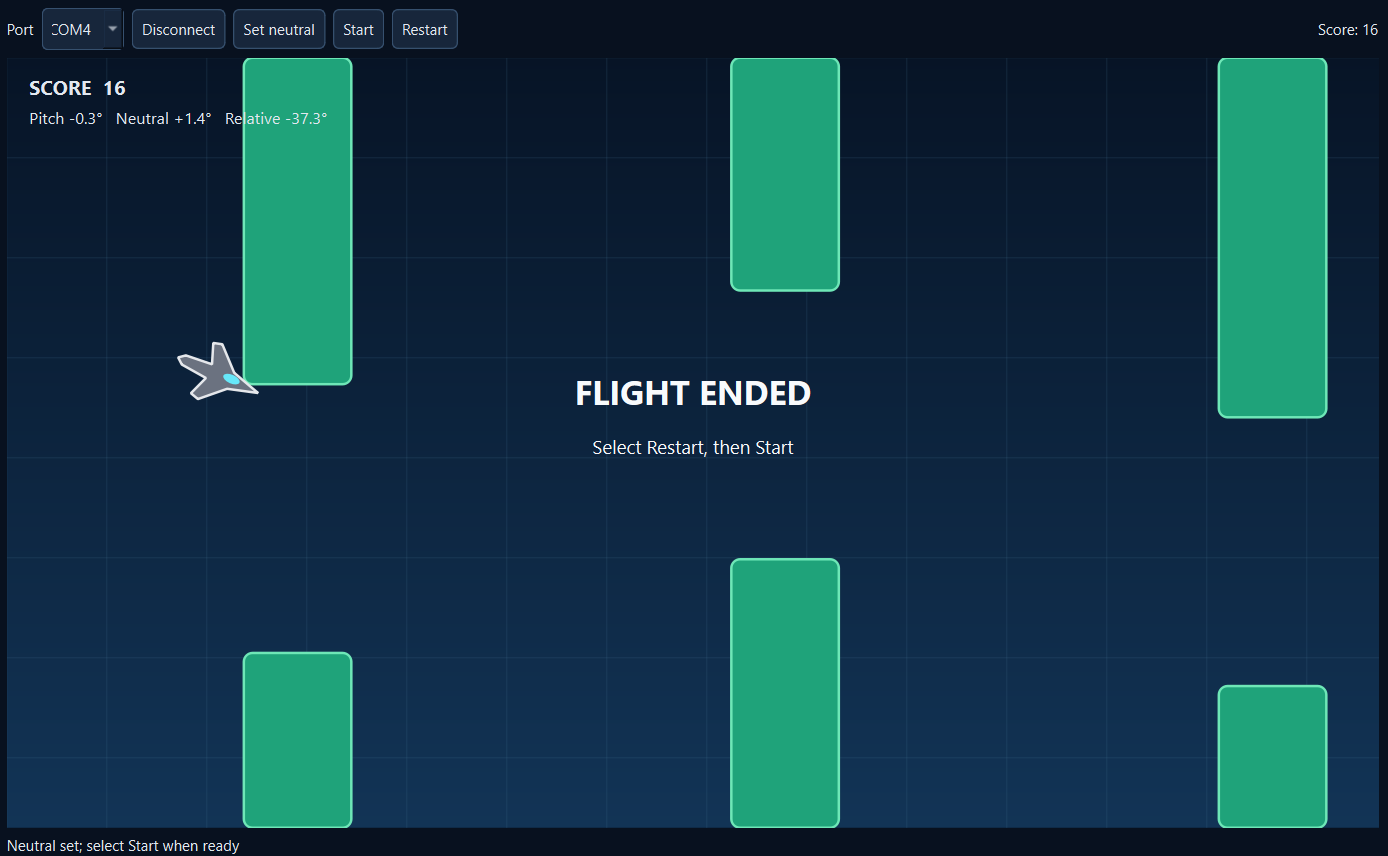
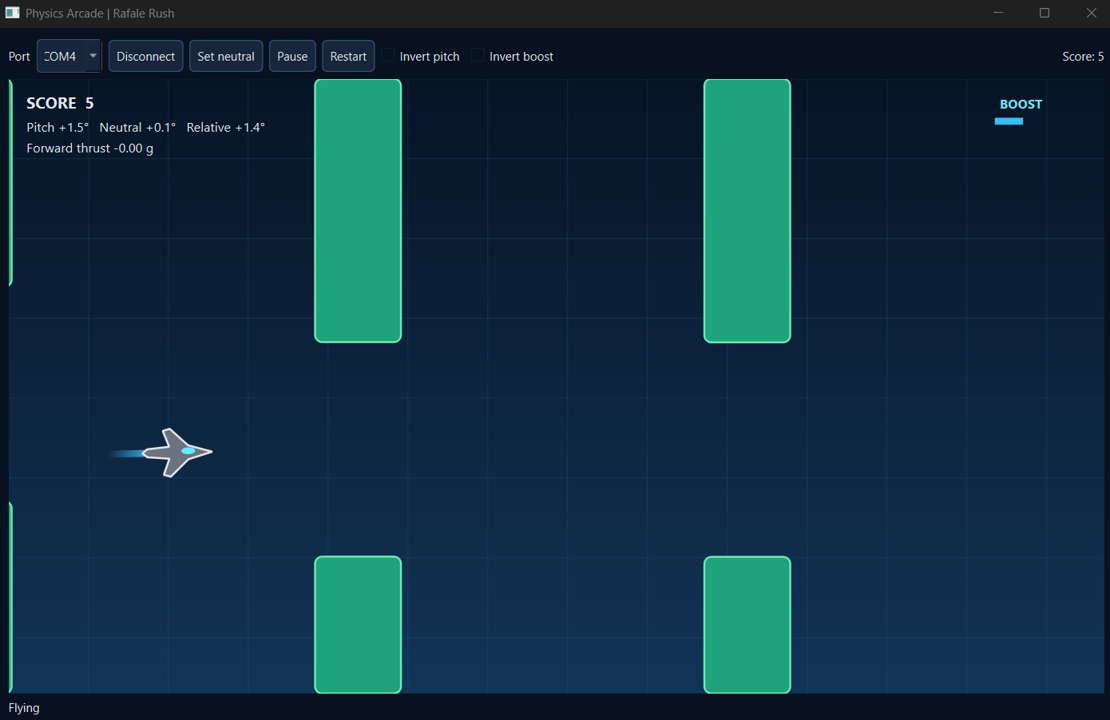
Add Rafale Rush screenshot to README

diff --git a/README.md b/README.md
@@ -38,6 +38,10 @@ intended to represent a validated aircraft model or simulation.
 
 ![IMU-controlled Rafale orientation view](screenshot/rafale.png)
 
+### Rafale Rush
+
+![Rafale Rush controlled by IMU pitch and forward-thrust gestures](screenshot/rafale%20rush.png)
+
 ## Installation
 
 Python 3.10 or newer is recommended.
@@ -85,6 +89,12 @@ For the optional Rafale view:
 
 ```powershell
 .venv\Scripts\python.exe projects\rafale_orientation\dashboard.py --port COM4
+```
+
+For the IMU-controlled Rafale Rush game:
+
+```powershell
+.venv\Scripts\python.exe projects\physics_arcade\games\001_rafale_rush\game.py --port COM4
 ```
 
 Keep the sensor stationary for a few seconds after connecting so the initial
